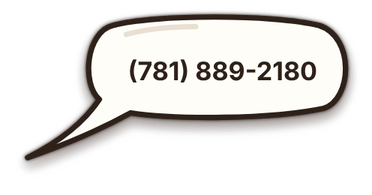
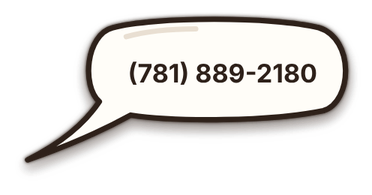
Pao Pao on the receipt; mail app opens after the corgi speaks (#9)
* Open the mail app after the corgi's messages, not instantly

The mail app used to cover the page before the corgi's bubbles were
seen. The address is still copied immediately; mailto now opens ~2.3s
later, once 'Special delivery!' is showing.

Claude-Session: https://claude.ai/code/session_01EfzXebvTKqAFox93T972dt

* Center the corgi's message text in the bubble body

Claude-Session: https://claude.ai/code/session_01EfzXebvTKqAFox93T972dt

* Name the corgi on the receipt: PAO PAO

Add the corgi's name above HEAD OF SECURITY and start that text below
the bubbles' tails so neither the phone nor the email bubble covers it.

Claude-Session: https://claude.ai/code/session_01EfzXebvTKqAFox93T972dt

---------

Changed region(s): [[0.0591, 0.4, 0.9462, 0.8615], [0.207, 0.0615, 0.9462, 0.3385], [0.3253, 0.3077, 0.8575, 0.4308]]

diff --git a/index.html b/index.html
@@ -516,7 +516,7 @@ footer.foot{padding-bottom:10px!important}
    any height still left over is shared by the spacers (logo gap gets 2 shares, the others 1). */
 body{min-height:100vh;min-height:100svh;align-items:center;
   --cap:min(100vw - 80px,360px);--k:303px;--g:30px;--glogo:36px;
-  --cw:max(96px,min(var(--cap),(100vh - var(--k)) / 1.28));--cw:max(96px,min(var(--cap),(100svh - var(--k)) / 1.28))}
+  --cw:max(96px,min(var(--cap),(100vh - var(--k)) / 1.33));--cw:max(96px,min(var(--cap),(100svh - var(--k)) / 1.33))}
 main,.wrap,.copy{display:contents}
 .sp{display:block;flex:1 1 var(--g);min-height:calc(var(--g) * .6)}
 .sp-logo{flex:2 1 var(--glogo);min-height:calc(var(--glogo) * .6)}
@@ -528,7 +528,7 @@ footer.foot{padding-top:0!important}
 @media (max-width:600px) and (max-height:700px){body{--k:292px;--g:26px;--glogo:32px}}
 /* ===== cup: wrapper, instant blurred placeholder, email hotspots ===== */
 .mugwrap .cupbox{display:block;position:relative;z-index:2;width:121.18%;margin:-7.06% 0 -7.06% -10.59%;
[2 lines of base64/hex data omitted]
 .mugwrap .cupbox.ready{background:none}
 .mugwrap .cupbox picture{display:block}
 .mugwrap .cupbox .cupimg{width:100%;margin:0}
@@ -577,7 +577,7 @@ footer.foot{padding-top:0!important}
 /* corgi message bubble for email buttons (text only, never contact info) */
 .bubmsg{container-type:inline-size;position:absolute;z-index:4;height:auto;pointer-events:none;filter:drop-shadow(0 2px 2px rgba(46,33,26,.22))}
 .bubmsg[hidden]{display:none}.bubmsg svg{display:block;width:100%;height:auto;overflow:visible}
-.bubmsg .bmt{position:absolute;left:34%;right:7%;top:12%;bottom:40%;display:flex;align-items:center;justify-content:center;text-align:center;font:800 8.4cqw/1.15 Inter,system-ui,sans-serif;color:#2E211A}
+.bubmsg .bmt{position:absolute;left:24%;right:12%;top:15%;bottom:39%;display:flex;align-items:center;justify-content:center;text-align:center;font:800 8.4cqw/1.15 Inter,system-ui,sans-serif;color:#2E211A}
 .bubmsg.pop{animation:bubpop .22s cubic-bezier(.3,1.4,.5,1) both}
 .bubmsg.out{animation:bubout .16s ease-in both}
 @keyframes bubout{to{opacity:0;transform:scale(.55)}}
@@ -591,7 +591,7 @@ footer.foot{padding-top:0!important}
 <div class="wrap"><div class="copy"><h1>Bottlenecks brewing?</h1>
 <p class="tag"><span class="l">We build custom solutions that surface the</span> <span class="l">right information and keep work flowing,</span> <span class="l">so your team can make better calls, faster.</span></p>
 <i class="sp sp-lid" aria-hidden="true"></i>
-<div class="mugwrap"><div class="spill" aria-hidden="true"><u style="--w:110px;--img:url(images/steam-1.png);--sx:55px;--dx:-6vw;--d:10.2s;--delay:-7.5s;--o:0.30;--k:7"></u><u style="--w:110px;--img:url(images/steam-3.png);--sx:31px;--dx:-12vw;--d:12.1s;--delay:-6.4s;--o:0.28;--k:-4"></u><u style="--w:150px;--img:url(images/steam-3.png);--sx:-39px;--dx:16vw;--d:12.7s;--delay:-12.7s;--o:0.28;--k:4"></u><u style="--w:130px;--img:url(images/steam-1.png);--sx:-27px;--dx:-6vw;--d:12.6s;--delay:-4.3s;--o:0.28;--k:-3"></u><u style="--w:110px;--img:url(images/steam-1.png);--sx:71px;--dx:-11vw;--d:11.4s;--delay:-0.8s;--o:0.22;--k:0"></u><u style="--w:110px;--img:url(images/steam-2.png);--sx:81px;--dx:10vw;--d:9.3s;--delay:-5.0s;--o:0.29;--k:8"></u><u style="--w:110px;--img:url(images/steam-2.png);--sx:14px;--dx:-7vw;--d:11.3s;--delay:-1.1s;--o:0.26;--k:3"></u><b class="ink" style="--s:13px;--sx:79px;--dx:23vw;--rise:59vh;--d:10.2s;--delay:-1.4s;--o:0.27;--j:2.4s;--r:9deg"><i></i></b><b class="" style="--s:19px;--sx:-102px;--dx:-13vw;--rise:58vh;--d:7.4s;--delay:-1.7s;--o:0.37;--j:2.2s;--r:31deg"><i></i></b><b class="" style="--s:22px;--sx:-3px;--dx:-36vw;--rise:82vh;--d:10.2s;--delay:-2.9s;--o:0.42;--j:2.5s;--r:-40deg"><i></i></b><b class="ink" style="--s:17px;--sx:-39px;--dx:-21vw;--rise:66vh;--d:10.5s;--delay:-1.1s;--o:0.33;--j:1.9s;--r:-16deg"><i></i></b><b class="" style="--s:13px;--sx:76px;--dx:42vw;--rise:52vh;--d:10.0s;--delay:-9.7s;--o:0.33;--j:2.2s;--r:46deg"><i></i></b><b class="" style="--s:17px;--sx:37px;--dx:-12vw;--rise:47vh;--d:10.1s;--delay:-6.7s;--o:0.40;--j:2.8s;--r:49deg"><i></i></b><b class="ink" style="--s:13px;--sx:-13px;--dx:37vw;--rise:85vh;--d:8.2s;--delay:-6.8s;--o:0.28;--j:1.9s;--r:25deg"><i></i></b><b class="" style="--s:13px;--sx:45px;--dx:-42vw;--rise:60vh;--d:8.3s;--delay:-1.4s;--o:0.33;--j:2.8s;--r:21deg"><i></i></b><b class="" style="--s:15px;--sx:65px;--dx:11vw;--rise:59vh;--d:10.4s;--delay:-8.6s;--o:0.41;--j:2.0s;--r:-52deg"><i></i></b><b class="ink" style="--s:22px;--sx:73px;--dx:21vw;--rise:76vh;--d:8.1s;--delay:-3.2s;--o:0.43;--j:2.0s;--r:-27deg"><i></i></b><b class="" style="--s:22px;--sx:27px;--dx:35vw;--rise:82vh;--d:7.7s;--delay:-3.1s;--o:0.29;--j:2.8s;--r:5deg"><i></i></b><b class="" style="--s:13px;--sx:110px;--dx:-17vw;--rise:85vh;--d:9.5s;--delay:-1.5s;--o:0.39;--j:2.2s;--r:-11deg"><i></i></b><b class="ink" style="--s:19px;--sx:25px;--dx:43vw;--rise:45vh;--d:8.9s;--delay:-6.1s;--o:0.27;--j:2.6s;--r:36deg"><i></i></b><b class="" style="--s:17px;--sx:-82px;--dx:35vw;--rise:55vh;--d:8.3s;--delay:-3.8s;--o:0.44;--j:2.6s;--r:-27deg"><i></i></b><b class="" style="--s:15px;--sx:19px;--dx:-27vw;--rise:85vh;--d:11.9s;--delay:-6.0s;--o:0.29;--j:1.9s;--r:-40deg"><i></i></b><b class="ink" style="--s:22px;--sx:-110px;--dx:39vw;--rise:46vh;--d:9.7s;--delay:-1.1s;--o:0.32;--j:2.8s;--r:43deg"><i></i></b></div><div class="cupsteam" aria-hidden="true"><i></i><i></i><i></i></div><span class="cupbox"><picture><source type="image/webp" srcset="images/cup-640.webp 640w, images/cup-900.webp 900w, images/cup.webp 1236w" sizes="(min-width:601px) 510px, calc(min(100vw - 80px, 360px) * 1.22)"><img class="cupimg" src="images/cup.png" width="1236" height="1413" fetchpriority="high" decoding="async" alt="Contact card for Sam and Gio, co-founders of Dual Origin Group"></picture><button type="button" class="mailbtn" data-p="s" style="left:45.14%;top:62.66%" aria-label="Email Sam"></button><button type="button" class="mailbtn" data-p="g" style="left:65.28%;top:62.05%" aria-label="Email Gio"></button><span class="bubmsg" style="left:36.314%;top:63.568%;width:43.641%;transform-origin:7.3% 80.6%" hidden aria-hidden="true"><svg viewBox="-8 -8 166 80"><g transform="translate(150 0) scale(-1 1)"><path d="M16 4C36-1 90-1 108 4c12 3 14 26 6 33Q124 52 146 63Q120 54 100 43c-20 3-62 3-86-2C1 37 0 9 16 4z" fill="#FFFDF8" stroke="#2E211A" stroke-width="2.4" stroke-linejoin="round"/></g><path d="M48 8c9-2.5 20-3.5 31-3.5" fill="none" stroke="#E9DFD2" stroke-width="2.4" stroke-linecap="round"/></svg><span class="bmt"></span></span><button type="button" class="telbtn" style="left:50.00%;top:33.35%;width:24.60%" aria-label="Show phone number" aria-expanded="false" aria-controls="bub"></button><span id="bub" class="bubimg" style="left:37.303%;top:68.170%;width:30.097%;transform-origin:7.3% 80.6%" hidden><picture><source type="image/webp" data-srcset="images/bubble.webp"><img data-src="images/bubble.png" alt="Phone number"></picture></span></span></div>
+<div class="mugwrap"><div class="spill" aria-hidden="true"><u style="--w:110px;--img:url(images/steam-1.png);--sx:55px;--dx:-6vw;--d:10.2s;--delay:-7.5s;--o:0.30;--k:7"></u><u style="--w:110px;--img:url(images/steam-3.png);--sx:31px;--dx:-12vw;--d:12.1s;--delay:-6.4s;--o:0.28;--k:-4"></u><u style="--w:150px;--img:url(images/steam-3.png);--sx:-39px;--dx:16vw;--d:12.7s;--delay:-12.7s;--o:0.28;--k:4"></u><u style="--w:130px;--img:url(images/steam-1.png);--sx:-27px;--dx:-6vw;--d:12.6s;--delay:-4.3s;--o:0.28;--k:-3"></u><u style="--w:110px;--img:url(images/steam-1.png);--sx:71px;--dx:-11vw;--d:11.4s;--delay:-0.8s;--o:0.22;--k:0"></u><u style="--w:110px;--img:url(images/steam-2.png);--sx:81px;--dx:10vw;--d:9.3s;--delay:-5.0s;--o:0.29;--k:8"></u><u style="--w:110px;--img:url(images/steam-2.png);--sx:14px;--dx:-7vw;--d:11.3s;--delay:-1.1s;--o:0.26;--k:3"></u><b class="ink" style="--s:13px;--sx:79px;--dx:23vw;--rise:59vh;--d:10.2s;--delay:-1.4s;--o:0.27;--j:2.4s;--r:9deg"><i></i></b><b class="" style="--s:19px;--sx:-102px;--dx:-13vw;--rise:58vh;--d:7.4s;--delay:-1.7s;--o:0.37;--j:2.2s;--r:31deg"><i></i></b><b class="" style="--s:22px;--sx:-3px;--dx:-36vw;--rise:82vh;--d:10.2s;--delay:-2.9s;--o:0.42;--j:2.5s;--r:-40deg"><i></i></b><b class="ink" style="--s:17px;--sx:-39px;--dx:-21vw;--rise:66vh;--d:10.5s;--delay:-1.1s;--o:0.33;--j:1.9s;--r:-16deg"><i></i></b><b class="" style="--s:13px;--sx:76px;--dx:42vw;--rise:52vh;--d:10.0s;--delay:-9.7s;--o:0.33;--j:2.2s;--r:46deg"><i></i></b><b class="" style="--s:17px;--sx:37px;--dx:-12vw;--rise:47vh;--d:10.1s;--delay:-6.7s;--o:0.40;--j:2.8s;--r:49deg"><i></i></b><b class="ink" style="--s:13px;--sx:-13px;--dx:37vw;--rise:85vh;--d:8.2s;--delay:-6.8s;--o:0.28;--j:1.9s;--r:25deg"><i></i></b><b class="" style="--s:13px;--sx:45px;--dx:-42vw;--rise:60vh;--d:8.3s;--delay:-1.4s;--o:0.33;--j:2.8s;--r:21deg"><i></i></b><b class="" style="--s:15px;--sx:65px;--dx:11vw;--rise:59vh;--d:10.4s;--delay:-8.6s;--o:0.41;--j:2.0s;--r:-52deg"><i></i></b><b class="ink" style="--s:22px;--sx:73px;--dx:21vw;--rise:76vh;--d:8.1s;--delay:-3.2s;--o:0.43;--j:2.0s;--r:-27deg"><i></i></b><b class="" style="--s:22px;--sx:27px;--dx:35vw;--rise:82vh;--d:7.7s;--delay:-3.1s;--o:0.29;--j:2.8s;--r:5deg"><i></i></b><b class="" style="--s:13px;--sx:110px;--dx:-17vw;--rise:85vh;--d:9.5s;--delay:-1.5s;--o:0.39;--j:2.2s;--r:-11deg"><i></i></b><b class="ink" style="--s:19px;--sx:25px;--dx:43vw;--rise:45vh;--d:8.9s;--delay:-6.1s;--o:0.27;--j:2.6s;--r:36deg"><i></i></b><b class="" style="--s:17px;--sx:-82px;--dx:35vw;--rise:55vh;--d:8.3s;--delay:-3.8s;--o:0.44;--j:2.6s;--r:-27deg"><i></i></b><b class="" style="--s:15px;--sx:19px;--dx:-27vw;--rise:85vh;--d:11.9s;--delay:-6.0s;--o:0.29;--j:1.9s;--r:-40deg"><i></i></b><b class="ink" style="--s:22px;--sx:-110px;--dx:39vw;--rise:46vh;--d:9.7s;--delay:-1.1s;--o:0.32;--j:2.8s;--r:43deg"><i></i></b></div><div class="cupsteam" aria-hidden="true"><i></i><i></i><i></i></div><span class="cupbox"><picture><source type="image/webp" srcset="images/cup-640.webp 640w, images/cup-900.webp 900w, images/cup.webp 1236w" sizes="(min-width:601px) 510px, calc(min(100vw - 80px, 360px) * 1.22)"><img class="cupimg" src="images/cup.png" width="1236" height="1461" fetchpriority="high" decoding="async" alt="Contact card for Sam and Gio, co-founders of Dual Origin Group"></picture><button type="button" class="mailbtn" data-p="s" style="left:45.08%;top:60.66%" aria-label="Email Sam"></button><button type="button" class="mailbtn" data-p="g" style="left:65.21%;top:60.06%" aria-label="Email Gio"></button><span class="bubmsg" style="left:36.340%;top:61.538%;width:43.641%;transform-origin:7.3% 80.6%" hidden aria-hidden="true"><svg viewBox="-8 -8 166 80"><g transform="translate(150 0) scale(-1 1)"><path d="M16 4C36-1 90-1 108 4c12 3 14 26 6 33Q124 52 146 63Q120 54 100 43c-20 3-62 3-86-2C1 37 0 9 16 4z" fill="#FFFDF8" stroke="#2E211A" stroke-width="2.4" stroke-linejoin="round"/></g><path d="M48 8c9-2.5 20-3.5 31-3.5" fill="none" stroke="#E9DFD2" stroke-width="2.4" stroke-linecap="round"/></svg><span class="bmt"></span></span><button type="button" class="telbtn" style="left:50.00%;top:32.29%;width:24.60%" aria-label="Show phone number" aria-expanded="false" aria-controls="bub"></button><span id="bub" class="bubimg" style="left:37.329%;top:65.989%;width:30.097%;transform-origin:7.3% 80.6%" hidden><picture><source type="image/webp" data-srcset="images/bubble.webp"><img data-src="images/bubble.png" alt="Phone number"></picture></span></span></div>
 </div></div></div>
 </main>
 <i class="sp" aria-hidden="true"></i>
@@ -612,10 +612,12 @@ footer.foot{padding-top:0!important}
   function corgiSay(msgs){if(!bm)return false;clearTimeout(bt);var b2=document.getElementById('bub');if(b2&&!b2.hidden&&typeof showBub==='function')showBub(false);
     var i=0;(function next(){if(i>=msgs.length){bhide();return}var m=msgs[i++];var go=function(){bshow(m);t.textContent=m.replace(/<br>/g,' ');bt=setTimeout(function(){i<msgs.length?bhide(next):bhide()},i<msgs.length?1700:2200)};bm.hidden?go():bhide(go)})();return true}
   function say(m){t.textContent=m;t.classList.add('on');clearTimeout(tid);tid=setTimeout(function(){t.classList.remove('on')},3200)}
+  var mt;/* the mail app opens only after the corgi has spoken, so visitors see the bubbles */
   document.querySelectorAll('.mailbtn').forEach(function(b){b.addEventListener('click',function(){
-    var p=b.getAttribute('data-p'),x=a(p),done=function(ok){var open='Special<br>delivery!';if(!corgiSay(ok?['Fetched<br>'+N[p]+'’s email!',open]:[open]))say(ok?N[p]+'’s email copied. Opening your mail app…':'Opening your mail app…')};
+    var p=b.getAttribute('data-p'),x=a(p),fired=false,done=function(ok){if(fired)return;fired=true;var open='Special<br>delivery!';
+      if(!corgiSay(ok?['Fetched<br>'+N[p]+'’s email!',open]:[open]))say(ok?N[p]+'’s email copied. Opening your mail app…':'Opening your mail app…');
+      clearTimeout(mt);mt=setTimeout(function(){window.location.href='mai'+'lto:'+x},ok?2300:900)};
     try{navigator.clipboard.writeText(x).then(function(){done(true)},function(){done(false)})}catch(e){done(false)}
-    window.location.href='mai'+'lto:'+x;
   })});
   var tb=document.querySelector('.telbtn'),bub=document.getElementById('bub');
   /* bubble images (the only place the phone number exists) load on first use */

diff --git a/CLAUDE.md b/CLAUDE.md
@@ -5,9 +5,9 @@ One-screen landing page for **dualorigingroup.com**, served by GitHub Pages from
 ## Files
 - `index.html` — the whole page: HTML, CSS, inline SVG logo, animations. No build step.
 - `images/cup.webp` (1236w), `cup-900.webp`, `cup-640.webp` — what browsers actually load (responsive `<picture>`, preloaded, `fetchpriority=high`). `images/cup.png` is the fallback. A ~1KB blurred copy is inlined in CSS as the `.cupbox` background so the cup outline appears instantly; JS removes it on load.
-- `images/cup.png` — the to-go cup contact card as ONE flattened image (lid, sleeve, muted sage-green stamp, and a slightly tilted paper receipt pinned to the sleeve by the stamp: Sam and Gio's color photos side by side in thin dark frames on a soft sage `#DCE6DE` background, names "SAM" / "GIO" in bold spaced monospace under them, and a copper espresso-cup email icon on each photo; dashed tear line; corgi line item "HEAD OF SECURITY / Guards the beans" x1; footer "BREWED IN MA" with a small flag hung beside it at cap height (the text stays centered) / smaller "© 2026 DOG LLC"). 1236×1413. The speech bubble is NOT in this image.
+- `images/cup.png` — the to-go cup contact card as ONE flattened image (lid, sleeve, muted sage-green stamp, and a slightly tilted paper receipt pinned to the sleeve by the stamp: Sam and Gio's color photos side by side in thin dark frames on a soft sage `#DCE6DE` background, names "SAM" / "GIO" in bold spaced monospace under them, and a copper espresso-cup email icon on each photo; dashed tear line; corgi line item "PAO PAO" (the corgi's name, bold spaced monospace) / "HEAD OF SECURITY" / "Guards the beans" x1, with the text starting below the bubbles' tail so neither bubble covers the name; footer "BREWED IN MA" with a small flag hung beside it at cap height (the text stays centered) / smaller "© 2026 DOG LLC"). 1236×1461. The speech bubble is NOT in this image.
 - `images/bubble.webp` / `bubble.png` — the corgi's cartoon speech bubble with the phone number (image only): white blob, bold dark outline, sitting right of the corgi on the receipt, below the names, with a long curved comic tail ending a few px short of its mouth (it lives in `.names`, outside the receipt's clip-path). Hidden until the stamp's inner circle (LET'S TALK + phone icon) is clicked: `<button class="telbtn">` toggles `<img id="bub" class="bubimg">` (pop-in from the tail; closes on outside click or Escape). The bubble itself is not clickable (no enlarge, no dialer). The bubble images are lazy-loaded (`data-src`/`data-srcset`) on first use, so they are not fetched on page load. The phone number is never in HTML/JS, not even scrambled: tap-to-call is intentionally not implemented. The email addresses are NOT shown in the image; the espresso icons are the only way to email.
-- Corgi message bubble (`.bubmsg`, live HTML text over the same bubble outline, ~45% larger than the phone bubble, same tail point; after any cup rebuild re-anchor its `left`/`top`/`width` from the `.bubimg` box: same tail point, 1.45× width): when an espresso email button is clicked, the corgi says "Fetched / {Name}'s email!" then pops out and back in with "Special / delivery!" (~1.7s + ~2.2s), then pops out. If the clipboard copy fails it only says the second line. Text never includes an address. The text is mirrored into the hidden `.toast` live region for screen readers. Opening the phone bubble hides it, and vice versa. Keep messages to two short lines (~13 characters each) or they overflow on phones.
+- Corgi message bubble (`.bubmsg`, live HTML text over the same bubble outline, ~45% larger than the phone bubble, same tail point; after any cup rebuild re-anchor its `left`/`top`/`width` from the `.bubimg` box: same tail point, 1.45× width): when an espresso email button is clicked, the corgi says "Fetched / {Name}'s email!" then pops out and back in with "Special / delivery!" (~1.7s + ~2.2s), then pops out. If the clipboard copy fails it only says the second line. The copy happens immediately on click, but `mailto:` is opened only after the corgi has spoken (~2.3s, or ~0.9s when only the second line shows) so visitors actually see the bubbles; repeat clicks reset the timer. Text never includes an address. The text is mirrored into the hidden `.toast` live region for screen readers. Opening the phone bubble hides it, and vice versa. Keep messages to two short lines (~13 characters each) or they overflow on phones.
 - `images/wordmark-light.png` — "DUAL ORIGIN GROUP" wordmark (Lora, cream, D/O/G slightly brighter).
 - `images/corgi.png` — corgi cutout (the badge itself is now baked into `cup.png`).
 - `images/steam-1..3.png` — steam textures for the rising-steam animation.
@@ -33,7 +33,7 @@ One-screen landing page for **dualorigingroup.com**, served by GitHub Pages from
 `index.html` has many appended override blocks at the end of `<style>` (with `!important`) from iterative design. Later rules win. When changing sizing, prefer adding/adjusting the media-query blocks near the end rather than editing early rules. Spacing rhythm is set by the LAST block ("consistent vertical rhythm"): `main/.wrap/.copy` are `display:contents`, three `<i class="sp">` spacers (logo→h1, blurb→lid, cup→bottom of page) flex in body's column, and the cup width `--cw` grows with screen height up to `--cap`. Tune per breakpoint via `--k` (height reserved for everything except the cup), `--g` (base gap) and `--glogo` (logo gap, gets 2 shares of leftover). h1→blurb stays a fixed 10px. If a change makes the header/text taller, raise `--k` for that band or the page will scroll.
 
 ## Regenerating the cup image
-`cup.png` is rendered from a private HTML source (not in this repo because it contains the contact text). The source kit lives in the **private** repo `dualorigingroup/website-assets` (`cup-source.html`, `tools/cupshot.js`, README with steps); attach it to the session to edit the cup. Never copy its contents into this public repo. Process: open the source HTML in headless Chrome at 1440×900, deviceScaleFactor 4, hide everything except the cup (lid, cup body, sleeve, stamp, names), disable animations and any glow/pseudo-elements, screenshot the bounding box of the visible `.lid,.cta,.kraft,.names,.tape,.cb,.bub,.rc` (zero-size/hidden elements are skipped) with 24px transparent padding (`node tools/cupshot.js` in `website-assets` does all of this) and `omit_background`, resize to 1236px wide, save as `images/cup.png`, then update the `height` attribute on `<img class="cupimg">`, regenerate `cup.webp`/`cup-900.webp`/`cup-640.webp` (quality 82, alpha 90) and the inlined blurred placeholder (32px wide, WebP data URI in the `.cupbox` rule). `node tools/cupshot.js cup-raw.png bubble-raw.png` writes the cup without the bubble plus the bubble alone, and prints positions as % of the cup image: email icons → `.mailbtn` `left`/`top`; stamp inner circle (`stamp` cx/cy/d) → `.telbtn` `left`/`top`/`width` (the tap area covers the whole LET'S TALK inner circle, not just the phone icon); bubble box → `.bubimg` `left`/`top`/`width`/`transform-origin` (the tail tip, from the bubble's `data-tip`). Resize the bubble by the same factor as the cup (1236 ÷ raw width). If the cup's height/width ratio changes, update the `/ 1.28` divisor in the `--cw` formula (visible cup height ÷ `.mugwrap` width) and re-tune `--k`. The image must have fully transparent edges so the page's glow fades smoothly.
+`cup.png` is rendered from a private HTML source (not in this repo because it contains the contact text). The source kit lives in the **private** repo `dualorigingroup/website-assets` (`cup-source.html`, `tools/cupshot.js`, README with steps); attach it to the session to edit the cup. Never copy its contents into this public repo. Process: open the source HTML in headless Chrome at 1440×900, deviceScaleFactor 4, hide everything except the cup (lid, cup body, sleeve, stamp, names), disable animations and any glow/pseudo-elements, screenshot the bounding box of the visible `.lid,.cta,.kraft,.names,.tape,.cb,.bub,.rc` (zero-size/hidden elements are skipped) with 24px transparent padding (`node tools/cupshot.js` in `website-assets` does all of this) and `omit_background`, resize to 1236px wide, save as `images/cup.png`, then update the `height` attribute on `<img class="cupimg">`, regenerate `cup.webp`/`cup-900.webp`/`cup-640.webp` (quality 82, alpha 90) and the inlined blurred placeholder (32px wide, WebP data URI in the `.cupbox` rule). `node tools/cupshot.js cup-raw.png bubble-raw.png` writes the cup without the bubble plus the bubble alone, and prints positions as % of the cup image: email icons → `.mailbtn` `left`/`top`; stamp inner circle (`stamp` cx/cy/d) → `.telbtn` `left`/`top`/`width` (the tap area covers the whole LET'S TALK inner circle, not just the phone icon); bubble box → `.bubimg` `left`/`top`/`width`/`transform-origin` (the tail tip, from the bubble's `data-tip`). Resize the bubble by the same factor as the cup (1236 ÷ raw width). If the cup's height/width ratio changes, update the `/ 1.33` divisor in the `--cw` formula (visible cup height ÷ `.mugwrap` width) and re-tune `--k`. The image must have fully transparent edges so the page's glow fades smoothly.
 
 ## Workflow
 - Develop on the session's working branch; never push to `main` directly.
